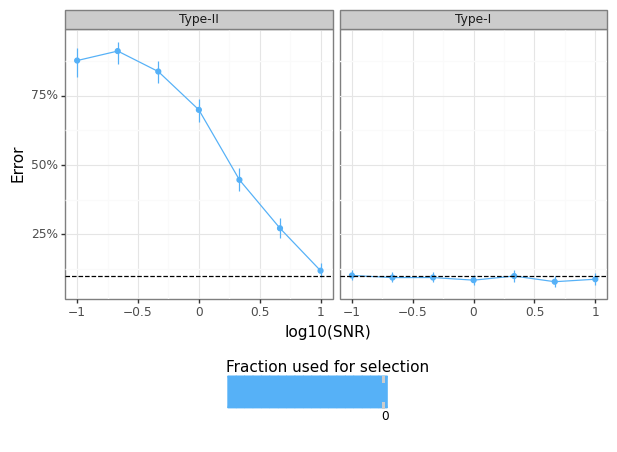
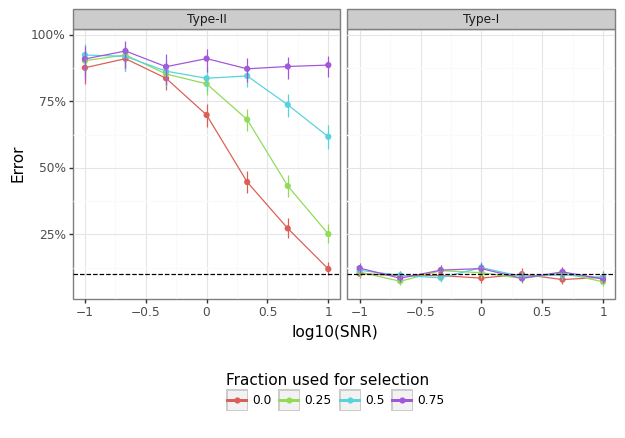
scarving can improve power, but there are limits, what drives this?

diff --git a/examples/coverage_power.py b/examples/coverage_power.py
@@ -22,18 +22,22 @@ from sntn.utilities.utils import get_CI, pn_labeller
 # --- (1) RUN SIMULATION --- #
 
 # Dimension of data
-n, p = 50, 100
+n, p = 100, 150
 s, k = 5, 10
 b0 = +1  # Intercept
 alpha = 0.1
 # Number of simulations per snr
 nsim = 100
 n_snr = 7
+frac_split_seq = [0.0, 0.25, 0.5, 0.75]
 n_perm = n_snr*nsim
 snr_seq_log10 = np.linspace(-1, +1, n_snr)
 snr_seq = np.exp(snr_seq_log10 * np.log(10))
 df_snr = pd.DataFrame({'noise':False, 'snr':snr_seq, 'beta':np.sqrt(snr_seq / s)})
 df_snr = pd.concat(objs=[df_snr.assign(noise=True,beta=0),df_snr])
+
+import warnings
+warnings.simplefilter("ignore")
 
 stime = time()
 holder_sim = []
@@ -42,30 +46,37 @@ for j, snr in enumerate(snr_seq):
     for i in range(nsim):
         # Draw data
         idx += 1
-        if idx % 25 == 0:
+        y, x, beta0, beta1 = dgp_sparse_yX(n, p, s, intercept=b0, snr=snr, seed=idx, return_params=True)
+
+        # (i) Loop over the difference frac to split
+        for frac_split in frac_split_seq:
+            split_marginal = marginal_screen(k, y, x, frac_split=frac_split)
+            # Calculate the ground truth parameters
+            idx_noise = ~(np.array(split_marginal.cidx_screen) < s)
+            n_screened = np.sum(~idx_noise)
+            sigma2_gt = 1 + (s-n_screened)*beta1[0]**2
+            beta_gt = np.where(idx_noise, 0, beta1[0])
+            # Do naive inference
+            split_marginal.ols_screen.run_inference(alpha, 0, sigma2_gt)
+            ols_naive_i = split_marginal.ols_screen.res_inf.assign(cidx=split_marginal.cidx_screen, mdl='ols')
+            # Do PoSI inference
+            any_split = frac_split > 0
+            split_marginal.run_inference(alpha, 0, sigma2_gt, run_carve=any_split, run_split=any_split)
+            tnorm_screen_i = split_marginal.res_screen.assign(cidx=split_marginal.cidx_screen, mdl='posi')
+            nts_carve_i = pd.DataFrame({})
+            if any_split:
+                nts_carve_i = split_marginal.res_carve.assign(cidx=split_marginal.cidx_screen, mdl='carve')
+            # Combine and save
+            res_screen_i = pd.concat(objs=[ols_naive_i, tnorm_screen_i, nts_carve_i])
+            res_screen_i = res_screen_i.assign(snr=snr, sim=i, frac_split=frac_split)
+            holder_sim.append(res_screen_i)
+        
+        if idx % 1 == 0:
             dtime = time() - stime
             rate = idx / dtime
             seta = (n_perm - idx)/rate
             print(f'Simulation {idx} of {n_perm} (ETA={seta:0.0f} seconds)')
-        y, x, beta0, beta1 = dgp_sparse_yX(n, p, s, intercept=b0, snr=snr, seed=idx, return_params=True)
 
-        # (i) Marginal screen on all data (no holdout)
-        screen_only = marginal_screen(k, y, x, frac_split=0.0)
-        idx_noise = ~(np.array(screen_only.cidx_screen) < s)
-        n_screened = np.sum(~idx_noise)
-        sigma2_gt = 1 + (s-n_screened)*beta1[0]**2
-        beta_gt = np.where(idx_noise, 0, beta1[0])
-        screen_only.ols_screen.run_inference(alpha, 0, sigma2_gt)
-        ols_screen_i = screen_only.ols_screen.res_inf.assign(cidx=screen_only.cidx_screen, mdl='ols') # ,beta=beta_gt
-        # Get the exact distribution
-        screen_only.get_A()
-        screen_only.run_inference(alpha, 0, sigma2_gt)
-        tnorm_screen_i = screen_only.res_screen.assign(cidx=screen_only.cidx_screen, mdl='posi') # ,beta=beta_gt
-        res_screen_i = pd.concat(objs=[ols_screen_i, tnorm_screen_i])
-        res_screen_i = res_screen_i.assign(snr=snr, sim=i, frac_split=0)
-
-        # Merge and store
-        holder_sim.append(res_screen_i)
 res_sim = pd.concat(holder_sim).reset_index(drop=True)
 res_sim['noise'] = ~(res_sim['cidx'] < s)
 res_sim = res_sim.merge(df_snr,'left')
@@ -82,7 +93,7 @@ import plotnine as pn
 from mizani.formatters import percent_format
 
 # Shared terms
-di_mdl = {'ols':'Naive OLS', 'posi':'PoSI'}
+di_mdl = {'ols':'Naive OLS', 'posi':'PoSI', 'carve':'Carving'}
 di_noise1 = {'False':'True signal', 'True':'Noise'}
 di_noise2 = {'False':'Type-II', 'True':'Type-I'}
 cn_agg = {'mean','sum','count'}
@@ -94,11 +105,12 @@ cn_gg3 = ['snr10','frac_split']
 res_cover = res_sim.groupby(cn_gg1)['cover'].agg(cn_agg).reset_index()
 res_cover = get_CI(res_cover, cn_den='count', cn_pct='mean', alpha=alpha).rename(columns={'mean':'cover'}).drop(columns=cn_agg,errors='ignore')
 
-gg_cover = (pn.ggplot(res_cover, pn.aes(x='snr10', y='cover', color='frac_split')) + 
+gg_cover = (pn.ggplot(res_cover, pn.aes(x='snr10', y='cover', color='frac_split.astype(str)')) + 
             pn.theme_bw() + pn.geom_point() + pn.geom_line() + 
             pn.geom_linerange(pn.aes(ymin='lb',ymax='ub')) + 
             pn.labs(x='log10(SNR)',y='Coverage') + 
-            pn.scale_color_gradient(name='Fraction used for selection') + 
+            pn.scale_color_discrete(name='Fraction used for selection') + 
+            # pn.scale_color_gradient(name='Fraction used for selection') + 
             # pn.scale_shape_discrete(name='Modelling approach') + 
             pn.scale_y_continuous(labels=percent_format()) + 
             pn.geom_hline(yintercept=1-alpha, color='black', linetype='--') + 
@@ -113,11 +125,12 @@ res_type12 = res_type12.assign(mean=lambda x: np.where(x['noise'], x['mean'], 1-
 res_type12 = get_CI(res_type12, cn_den='count', cn_pct='mean', alpha=alpha)
 res_type12 = res_type12.rename(columns={'mean':'err'}).drop(columns=cn_agg,errors='ignore')
 
-gg_type12 = (pn.ggplot(res_type12, pn.aes(x='snr10', y='err', color='frac_split')) + 
+gg_type12 = (pn.ggplot(res_type12, pn.aes(x='snr10', y='err', color='frac_split.astype(str)')) + 
             pn.theme_bw() + pn.geom_point() + pn.geom_line() + 
             pn.geom_linerange(pn.aes(ymin='lb',ymax='ub')) + 
             pn.labs(x='log10(SNR)', y='Error') + 
-            pn.scale_color_gradient(name='Fraction used for selection') + 
+            pn.scale_color_discrete(name='Fraction used for selection') + 
+            # pn.scale_color_gradient(name='Fraction used for selection') + 
             pn.scale_y_continuous(labels=percent_format()) + 
             pn.geom_hline(yintercept=alpha, color='black', linetype='--') + 
             pn.theme(legend_position=(0.5,-0.15)) + 
@@ -129,11 +142,12 @@ res_sel = res_sim.query('mdl=="posi"').groupby(cn_gg3)['noise'].agg({'sum','coun
 res_sel = get_CI(res_sel, cn_den='tot', cn_num='n', alpha=alpha)
 res_sel = res_sel.rename(columns={'pct':'sel_prob'}).drop(columns=cn_agg,errors='ignore')
 
-gg_selprob = (pn.ggplot(res_sel, pn.aes(x='snr10', y='sel_prob', color='frac_split')) + 
+gg_selprob = (pn.ggplot(res_sel, pn.aes(x='snr10', y='sel_prob', color='frac_split.astype(str)')) + 
             pn.theme_bw() + pn.geom_point() + pn.geom_line() + 
             pn.geom_linerange(pn.aes(ymin='lb',ymax='ub')) + 
             pn.labs(x='log10(SNR)', y='Selection prob') + 
-            pn.scale_color_gradient(name='Fraction used for selection') + 
+            # pn.scale_color_gradient(name='Fraction used for selection') + 
+            pn.scale_color_discrete(name='Fraction used for selection') + 
             pn.scale_y_continuous(labels=percent_format(),limits=[0,1]) + 
             pn.theme(legend_position=(0.5,-0.15)))
 gg_selprob.save(os.path.join(dir_figures, 'carving_selection_prob.png'), width=5.5, height=3.5)

diff --git a/examples/frac_split.py b/examples/frac_split.py
@@ -1,0 +1,119 @@
+"""
+Understanding what mechanistically happens as the fraction of data going to the split data...
+"""
+
+# External
+import os
+import numpy as np
+import pandas as pd
+from time import time
+from scipy.stats import norm, binom
+# Internal
+from parameters import seed
+from sntn.posi import marginal_screen
+from sntn.utilities.linear import dgp_sparse_yX
+
+# Parameters
+alpha = 0.1
+nsim = 500
+n, p = 150, 250
+s, k = 5, 10
+cidx_s = list(range(s))
+b0 = +1
+snr = 2
+beta_j = np.sqrt(snr / s)
+beta_j2 = snr / s
+frac_split_seq = np.round(np.arange(0.0, 0.91, 0.10),2)
+
+##############################
+# --- (1) RUN SIMULATION --- #
+
+# NHST
+null_beta = 0 
+cn_null_beta = ['cidx','pval']
+
+# Loop over different data fractions
+stime = time()
+holder_bhat, holder_pval = [], []
+for i in range(nsim):
+    # Draw data (will be repeatedly sampled...)
+    y, x, beta0, beta1 = dgp_sparse_yX(n, p, s, intercept=b0, snr=snr, seed=i, return_params=True)
+    assert beta1[0]**2 == beta_j2
+    if (i+1) % 5 == 0:
+        dtime = time() - stime
+        rate = (i+1) / dtime
+        seta = (nsim-i-1)/rate
+        print(f'Iteration {i+1} of {nsim} (ETA={seta:0.0f} seconds)')
+    for frac_split in frac_split_seq:
+        # (i) Generate data
+        posi = marginal_screen(k, y, x, frac_split=frac_split, seed=i)
+        n_screen = posi.x_screen.shape[0]
+        n_split = posi.x_split.shape[0]
+        # print(f'frac={frac_split}: n_screen={n_screen}, n_split={n_split}')
+        
+        # (ii) Determine ground truth
+        cidx = posi.cidx_screen
+        idx_tp = np.isin(cidx, range(s))
+        n_tp = np.sum(idx_tp)
+        sigma2_submdl = 1 + (s-n_tp)*beta_j2
+        null_act = np.where(idx_tp, beta_j, 0)
+
+        run_carve, run_split = True, True
+        if frac_split == 0:
+            run_carve, run_split = False, False
+        # (iii) Run inference for "null" hypothesis (this is for p-values)
+        posi.run_inference(alpha, null_beta, sigma2_submdl, run_ci=False, run_carve=run_carve, run_split=run_split)
+        dat_pval_null = pd.DataFrame({'sim':i+1,'frac':frac_split,'null':'zero','cidx':cidx, 'msr':'pval',  'screen':posi.res_screen.pval})
+        if run_carve:
+            dat_pval_null['split'] = posi.res_split.pval
+            dat_pval_null['carve'] = posi.res_carve.pval
+
+        # (iv) Re-run inference with "correct" null hypothesis
+        posi.run_inference(alpha, null_act, sigma2_submdl, run_ci=False, run_carve=run_carve, run_split=run_split)
+        dat_pval_act = pd.DataFrame({'sim':i+1,'frac':frac_split,'null':'act', 'cidx':cidx, 'msr':'pval', 'screen':posi.res_screen.pval})
+        if run_carve:
+            dat_pval_act['split'] = posi.res_split.pval
+            dat_pval_act['carve'] = posi.res_carve.pval
+        dat_pval_act = dat_pval_act[dat_pval_act['cidx'].isin(cidx_s)]
+        
+        # Merge and append
+        dat_pval = pd.concat(objs=[dat_pval_act, dat_pval_null])
+        holder_pval.append(dat_pval)
+
+        # (v) Ge the coefficients
+        dat_bhat = pd.DataFrame({'sim':i+1, 'frac':frac_split, 'cidx':cidx, 'screen':posi.res_screen.bhat})
+        if run_carve:
+            dat_bhat['split'] = posi.res_split.bhat
+            dat_bhat['carve'] = posi.res_carve.bhat
+            dat_bhat['theory'] = posi.dist_carve.mean()
+        holder_bhat.append(dat_bhat)
+# Merge
+res_bhat = pd.concat(holder_bhat).reset_index(drop=True)
+res_bhat['noise'] = ~res_bhat['cidx'].isin(cidx_s)
+res_bhat.to_csv('examples/res_bhat.csv',index=False)
+res_pval = pd.concat(holder_pval).reset_index(drop=True)
+res_pval['noise'] = ~res_pval['cidx'].isin(cidx_s)
+res_pval.to_csv('examples/res_pval.csv',index=False)
+
+
+#################################
+# --- (2) CHECK CALIBRATION --- #
+
+cn_methods = ['split', 'screen', 'carve']
+
+# (i) beta's should align (CORRECT)
+res_bhat[['carve','theory']].mean()
+res_bhat.groupby('noise')[['carve','theory']].mean()
+
+# (ii) We should expect uniform p-values (CORRECT)
+cn_gg = ['noise']
+dat_uniform = res_pval.query('(null=="zero" & noise) | (null=="act" & ~noise)').reset_index(drop=True)
+dat_uniform.groupby('noise')[cn_methods].mean()
+dat_uniform.groupby('noise')[cn_methods].quantile(0.1)
+
+# (iii) Trajectory frac_split
+dat_power = res_pval.query('null=="zero" & ~noise').drop(columns=['null','noise']).reset_index(drop=True)
+# ON AVERAGE, IT APPEARS THAT TOO MUCH DATA FOR CARVING YOU'D BE BETTER OFF JUST RUNNING CLASSICAL OLS WITH SPLITTING???
+(dat_power.set_index('frac')[cn_methods] < alpha).groupby('frac').mean()
+
+

diff --git a/sntn/_posi.py b/sntn/_posi.py
@@ -147,7 +147,7 @@ class _posi_marginal_screen(_split_yx):
         return alph_den, v_neg, v_pos
 
 
-    def run_inference(self, alpha:float, null_beta:float or np.ndarray=0, sigma2:float or None=None, run_screen:bool=True, run_split:bool=True, run_carve:bool=True, **kwargs) -> None:
+    def run_inference(self, alpha:float, null_beta:float or np.ndarray=0, sigma2:float or None=None, run_screen:bool=True, run_split:bool=True, run_carve:bool=True, run_ci:bool=True, **kwargs) -> None:
         """
         Carries out classical and PoSI inference (including data carving)
         
@@ -159,6 +159,7 @@ class _posi_marginal_screen(_split_yx):
         run_screen:             Whether inference should be done on the truncated normal screened data (default=True)
         run_split:              Whether classical (normal/student-t) should be run of the split data (default=True)
         run_carve:              Whether carve infernce (NTS) should be run of screen+split data (default=True)
+        run_ci:                 Whether CIs should be calculated
         **kwargs:               To be passed onto nts() dist
 
         Attributes
@@ -201,8 +202,11 @@ class _posi_marginal_screen(_split_yx):
             bhat_S = self.ols_screen.linreg.coef_
             pval = self.dist_screen.cdf(bhat_S)
             pval = 2*np.minimum(pval, 1-pval)
-            ci_lbub = self.dist_screen.conf_int(bhat_S, alpha, a=v_neg, b=v_pos, sigma2=alph_den)
-            self.res_screen = pd.DataFrame({'cidx':self.cidx_screen,'bhat':bhat_S, 'pval':pval, 'lb':ci_lbub[:,0], 'ub':ci_lbub[:,1]})
+            self.res_screen = pd.DataFrame({'cidx':self.cidx_screen,'bhat':bhat_S, 'pval':pval})
+            if run_ci:
+                ci_lbub = self.dist_screen.conf_int(bhat_S, alpha, a=v_neg, b=v_pos, sigma2=alph_den)
+                self.res_screen['lb'] = ci_lbub[:,0]
+                self.res_screen['ub'] = ci_lbub[:,1]
 
         # -- (iv) Calculate NTS screen+split data (i.e. carving) -- #
         if run_carve:
@@ -229,11 +233,15 @@ class _posi_marginal_screen(_split_yx):
             # Calculate terms for dataframe
             pval = self.dist_carve.cdf(bhat_carve)
             pval = 2*np.minimum(pval, 1-pval)
-            ci_lbub = self.dist_carve.conf_int(bhat_carve, alpha=alpha, param_fixed='mu', cdf_approach= cdf_approach)
-            ci_lbub = np.squeeze(ci_lbub)
-            self.res_carve = pd.DataFrame({'cidx':self.cidx_screen, 'bhat':bhat_carve, 'pval':pval, 'lb':ci_lbub[:,0], 'ub':ci_lbub[:,1]}) # , 'mu':self.dist_carve.mean()
+            self.res_carve = pd.DataFrame({'cidx':self.cidx_screen, 'bhat':bhat_carve, 'pval':pval})
+            if run_ci:
+                ci_lbub = self.dist_carve.conf_int(bhat_carve, alpha=alpha, param_fixed='mu', cdf_approach= cdf_approach)
+                ci_lbub = np.squeeze(ci_lbub)
+                self.res_carve['lb'] = ci_lbub[:,0]
+                self.res_carve['ub'] = ci_lbub[:,1]
 
         # Remove column used only for carve
-        self.res_split.drop(columns='se', errors='ignore', inplace=True)
+        if run_split:
+            self.res_split.drop(columns='se', errors='ignore', inplace=True)
         
 

diff --git a/sntn/_nts.py b/sntn/_nts.py
@@ -150,11 +150,13 @@ class _nts():
         # Get CDF
         pval = (cdf2 - cdf1) / self.Z
         # If cdf2 and cdf1 1 are effectively, then tail is so extreme solution is one
-        pval[(cdf2 - cdf1 == 0) & (cdf2.round(5) == 1)] = 1
+        pval[(cdf2 - cdf1 == 0) & (cdf2.round() == 1)] = 1
         # If Z is zero, then it's going to be zero
         pval[(cdf2 == 0) & (cdf1 == 0) & (self.Z == 0)] = 0
         # Return to proper shape
         pval = reverse_broadcast_from_k(pval, self.param_shape)
+        # Bound b/w [0,1]
+        pval = np.clip(pval, 0, 1)
         return pval
             
 

diff --git a/examples/orthant_tails.py b/examples/orthant_tails.py
@@ -16,6 +16,21 @@ from sntn.utilities.grad import _log_gauss_approx
 Another issue
 """
 
+# mu = 
+x = -5.42473206
+tau21 = 11.11613935
+tau22 = 0.03412925
+a = -0.34085213
+b = -0.28341952
+m_seq = np.linspace(-33, 33.1, 21)
+cdf = nts(m_seq, tau21, None, tau22, a, b, fix_mu=True, cdf_approach='scipy').cdf(x).flatten()
+print(pd.DataFrame({'cdf':cdf,'mu':m_seq}))
+breakpoint()
+
+"""
+Another issue
+"""
+
 x = 0.09308509
 mu = -1.0392994
 tau21 = 0.03343167
